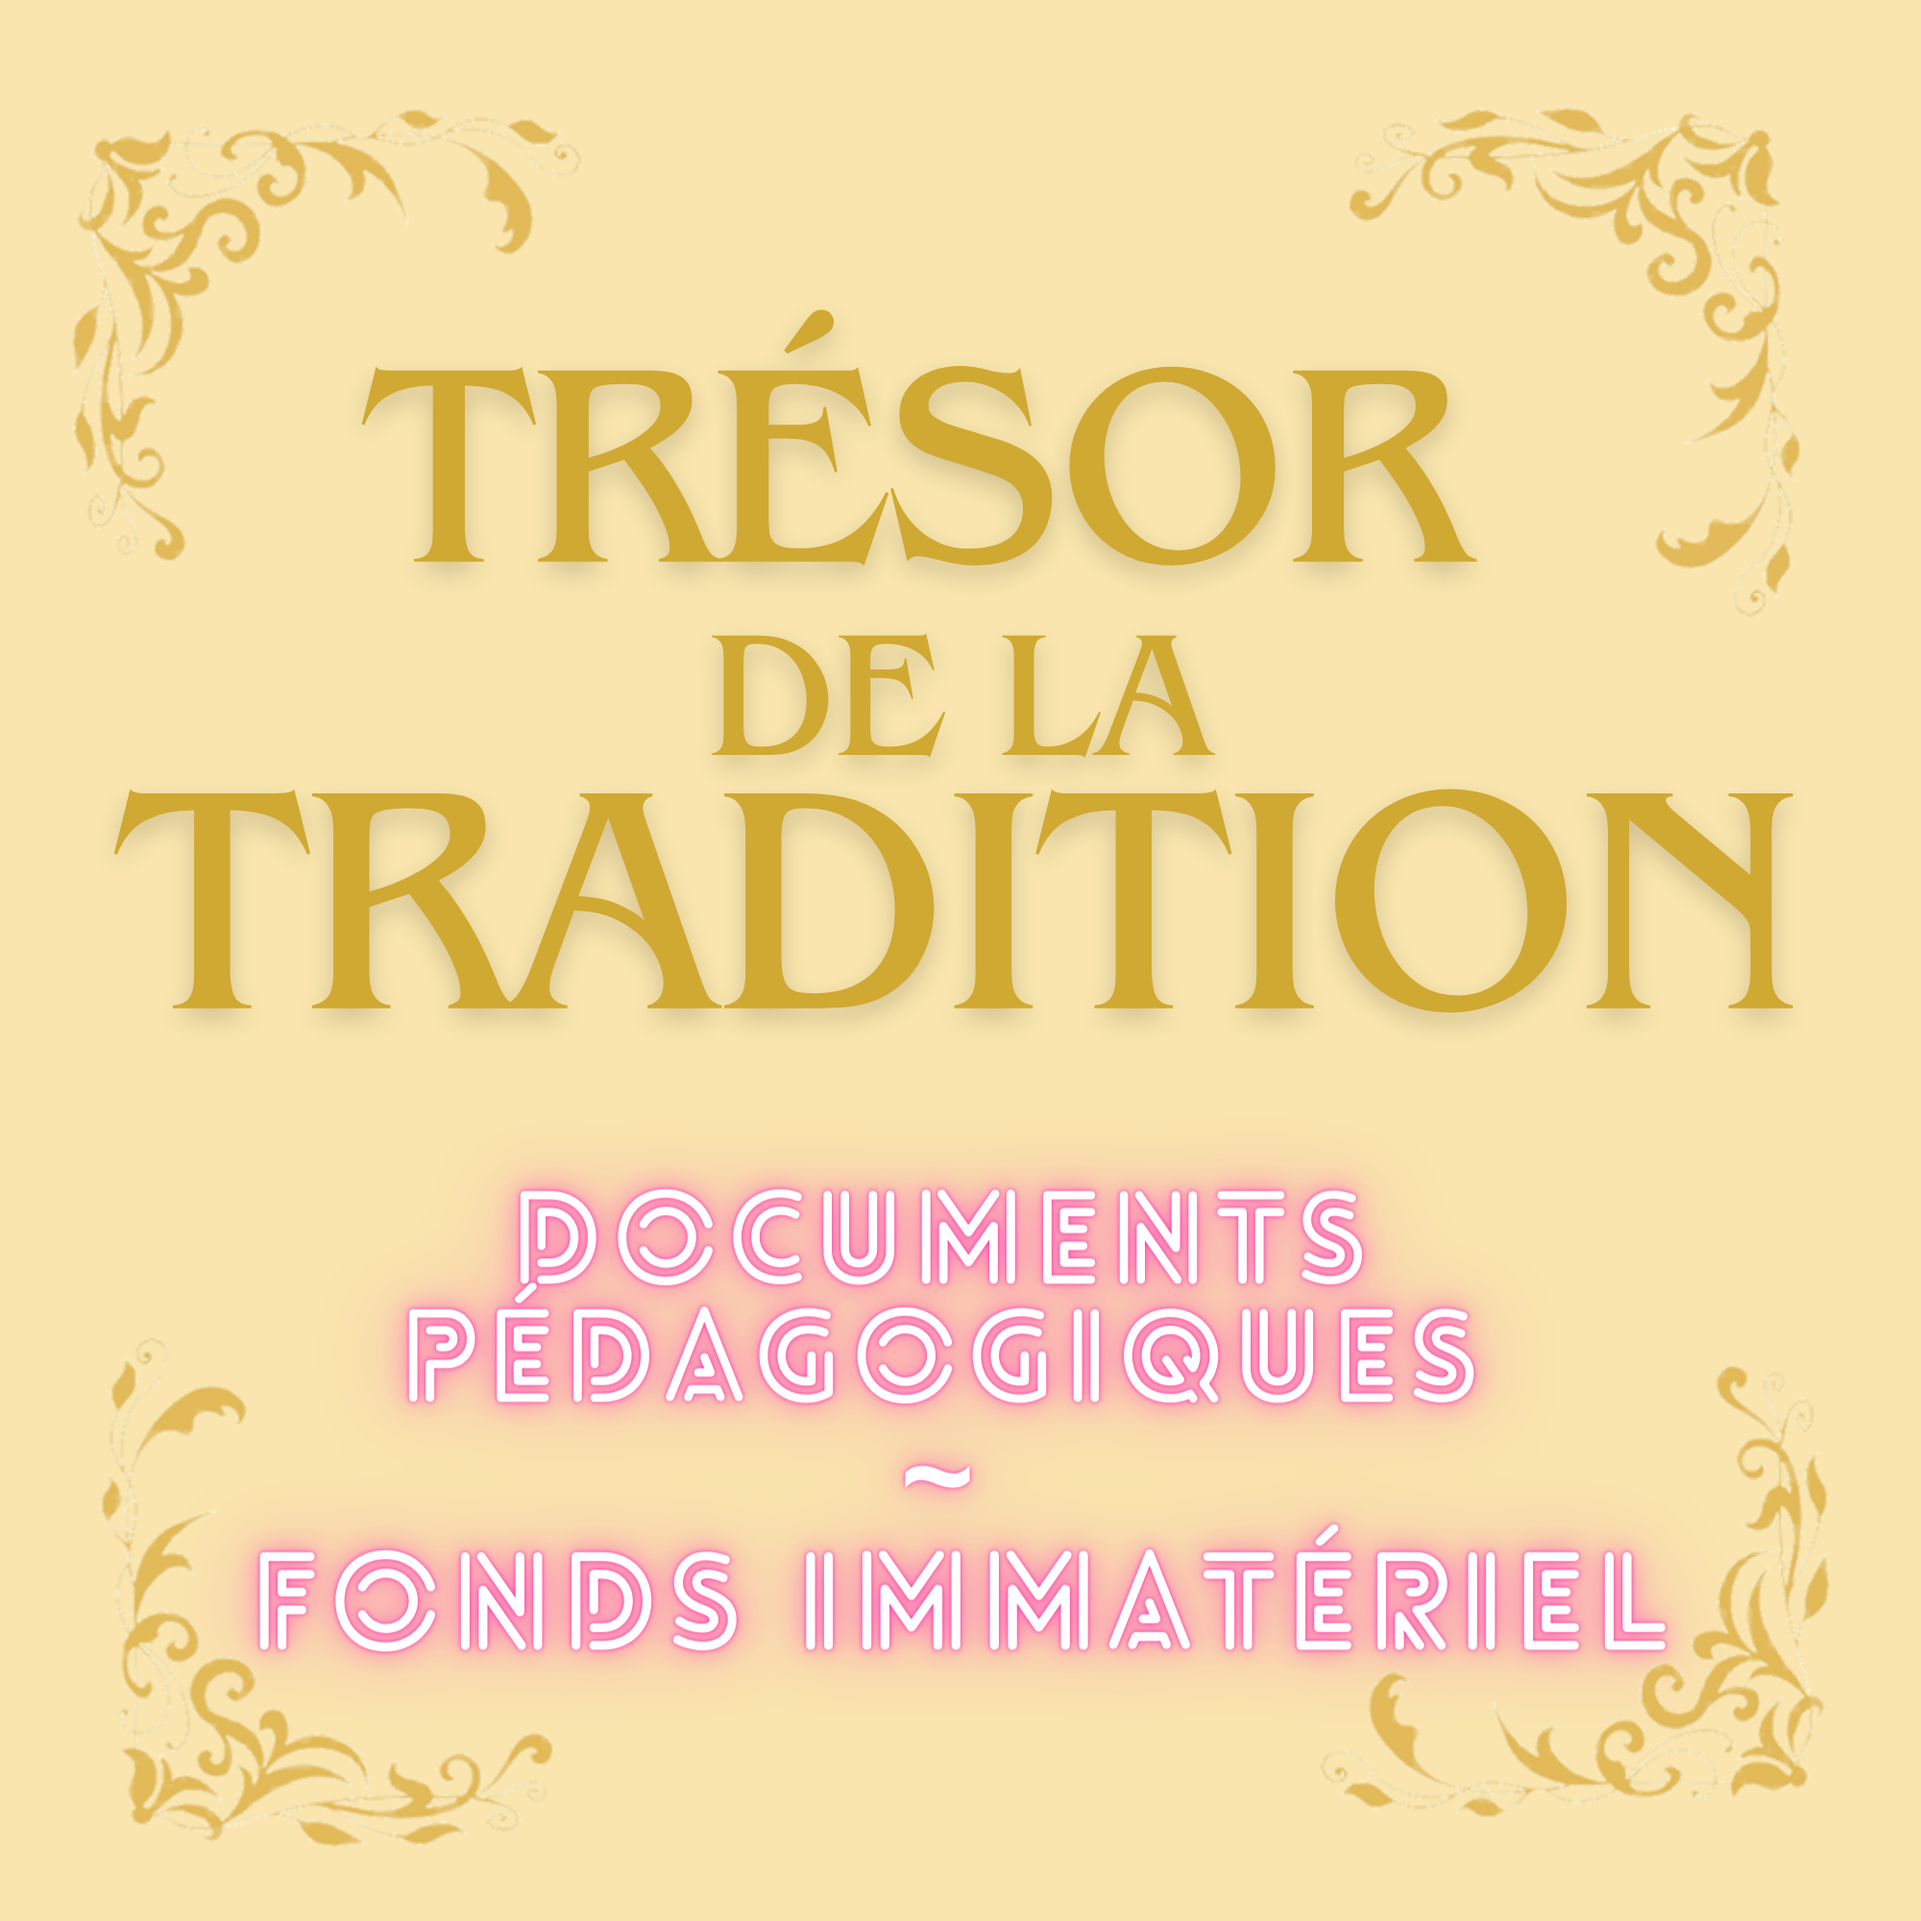
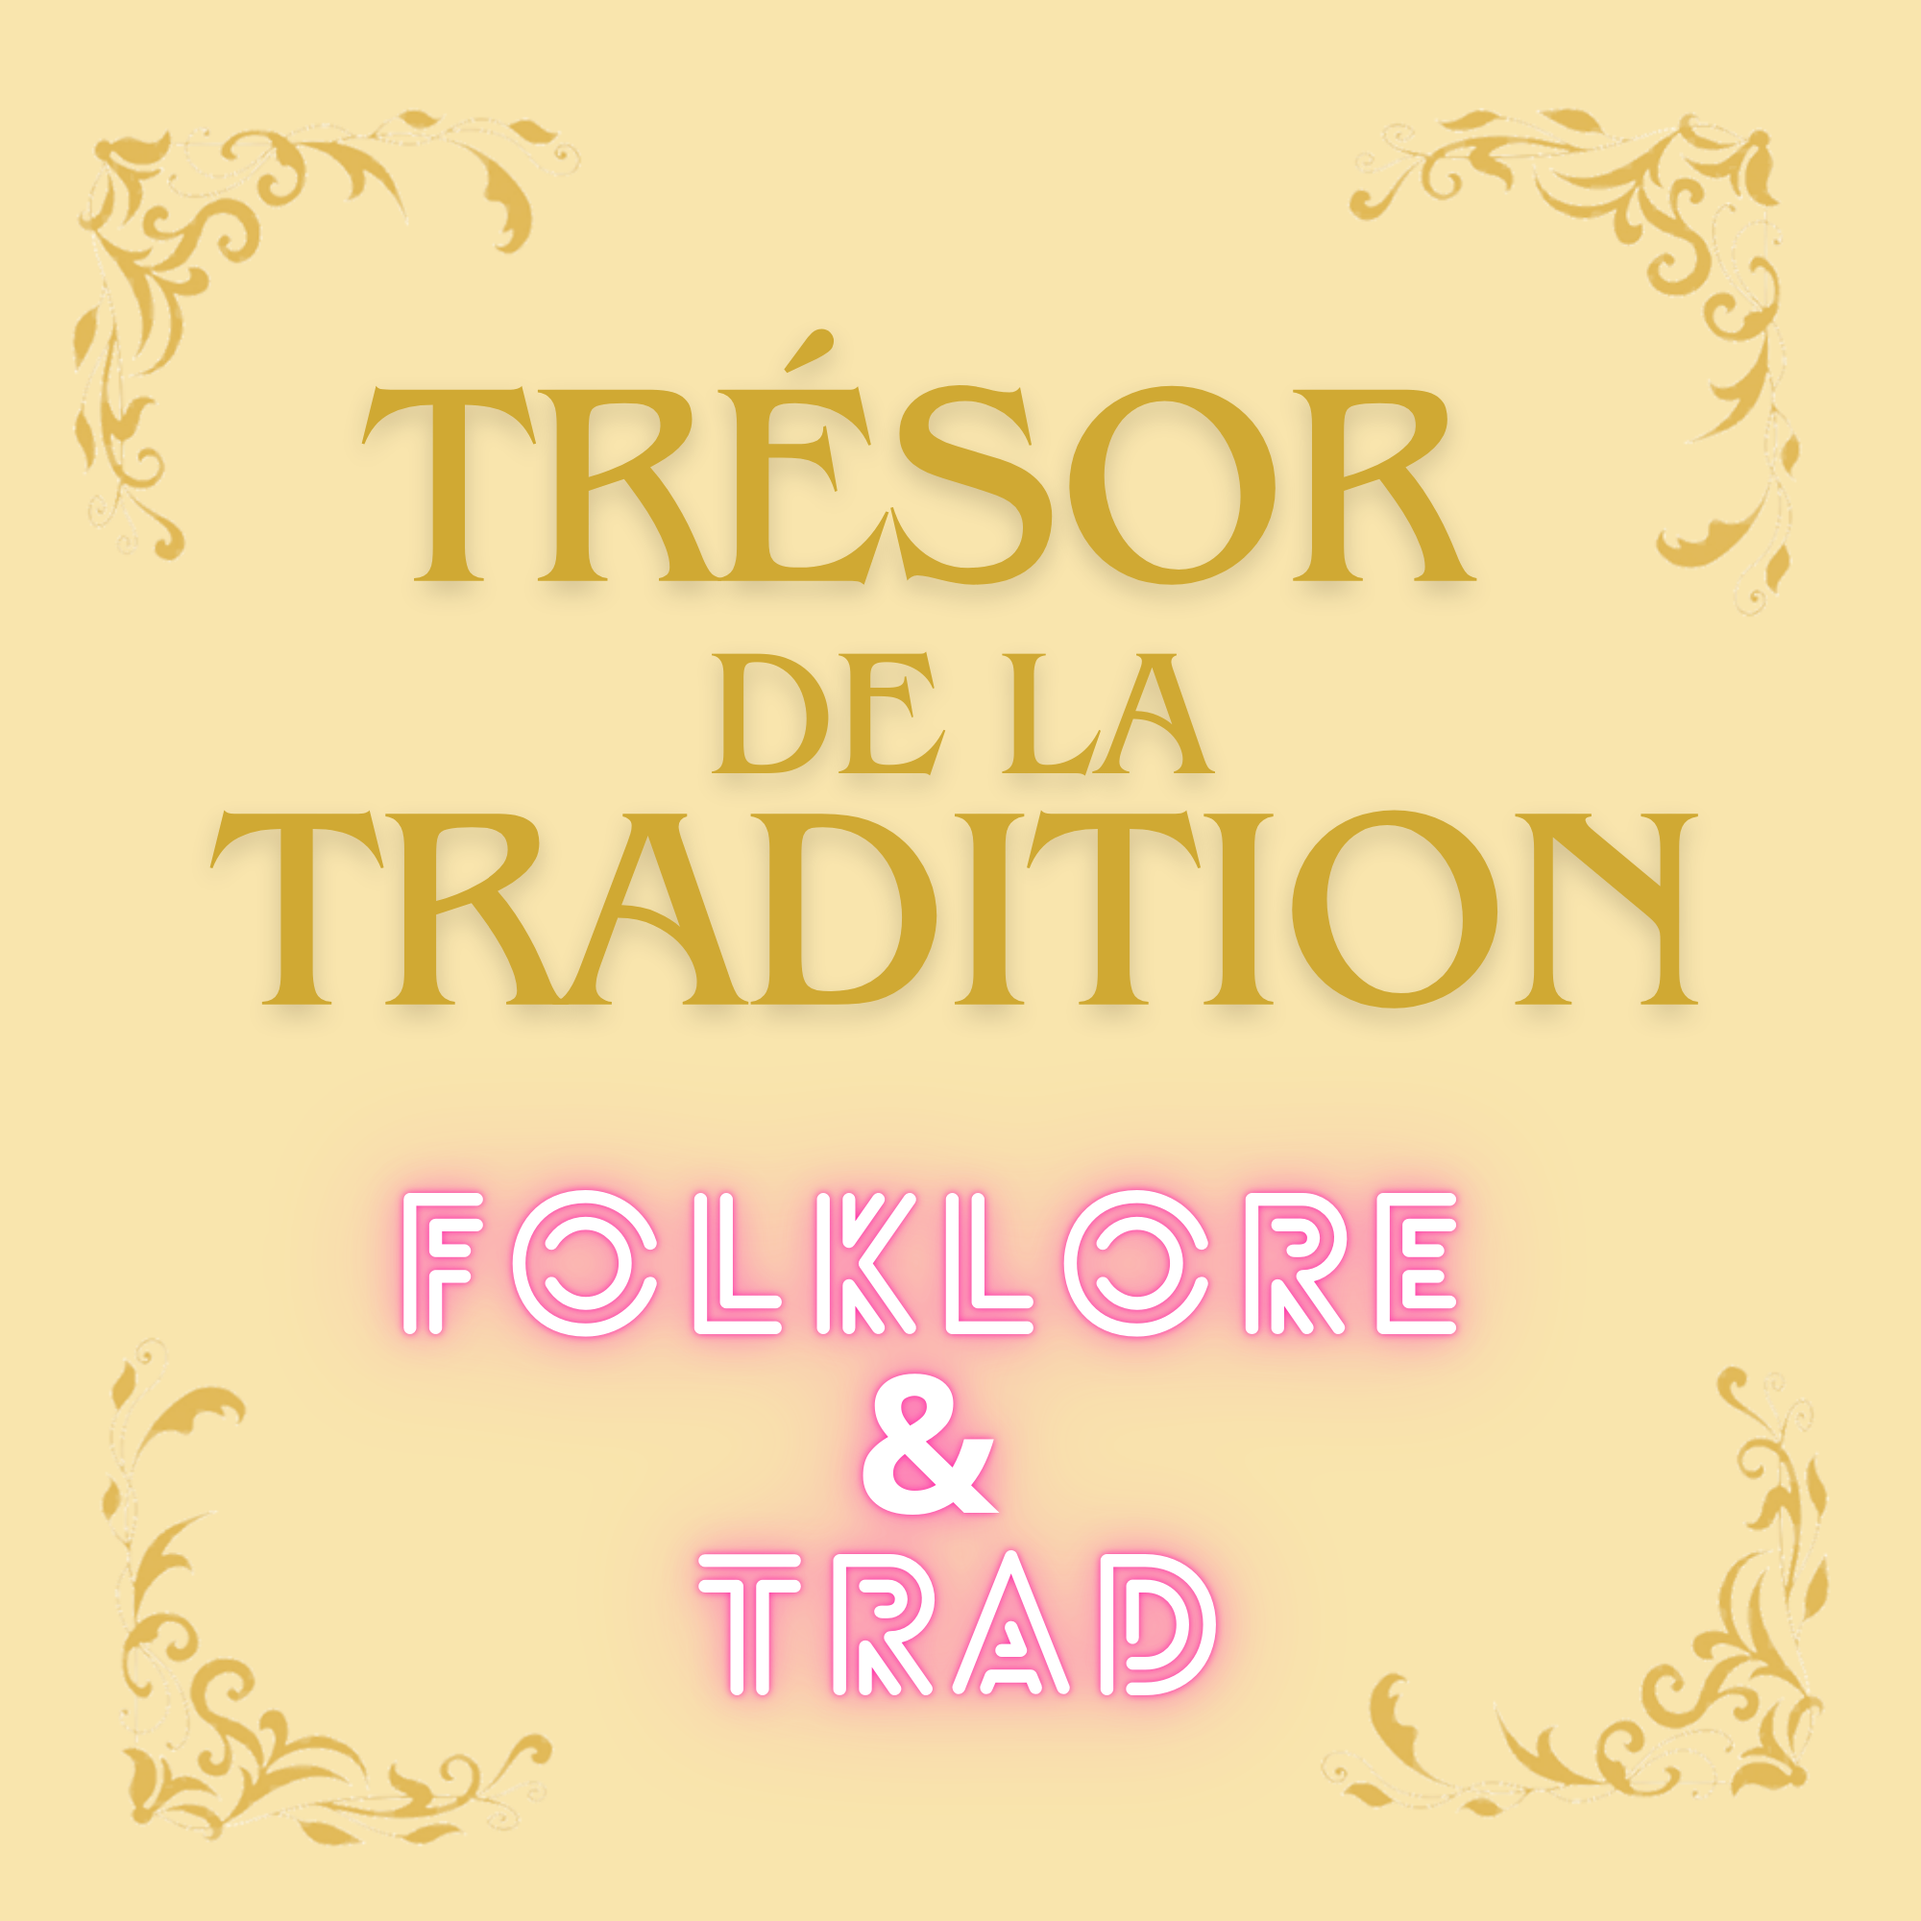
'maj'

diff --git a/index.html b/index.html
@@ -8,7 +8,7 @@
 	<title>Trésor de la tradition</title>
 
 <meta property="og:title" content="Trésor de la tradition"/>
-<meta property="og:image" content="https://i.ibb.co/L5HPGj5/vignette.png"/>
+<meta property="og:image" content="https://i.ibb.co/st4KJcb/vignette.png"/>
 <meta property="og:description" content="Documents pédagogiques - Fonds immatériel - Travaux personnels"/>
 <meta property="og:url" content="https://louis-lascaud.github.io/Tresor-de-la-tradition/"/>
 <meta property="og:image:width" content="2000" />
